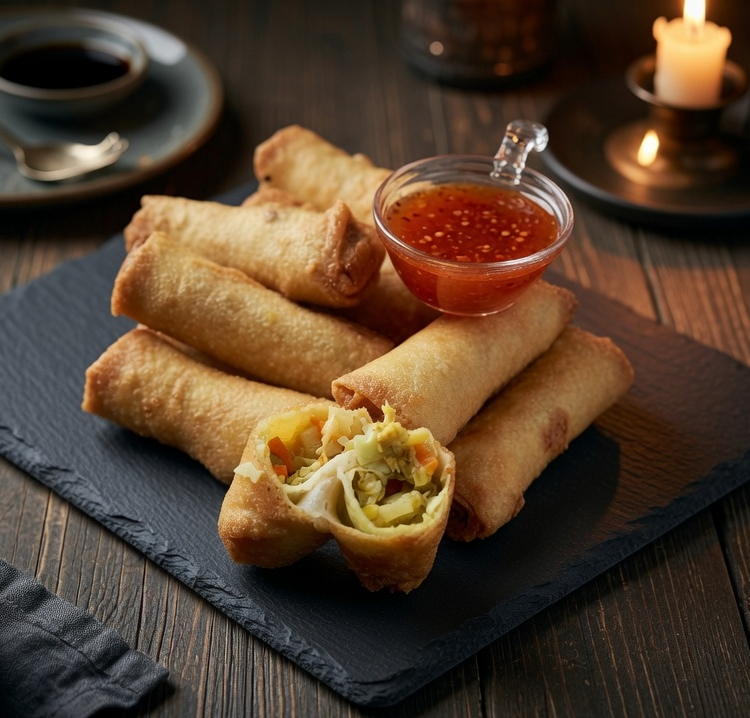
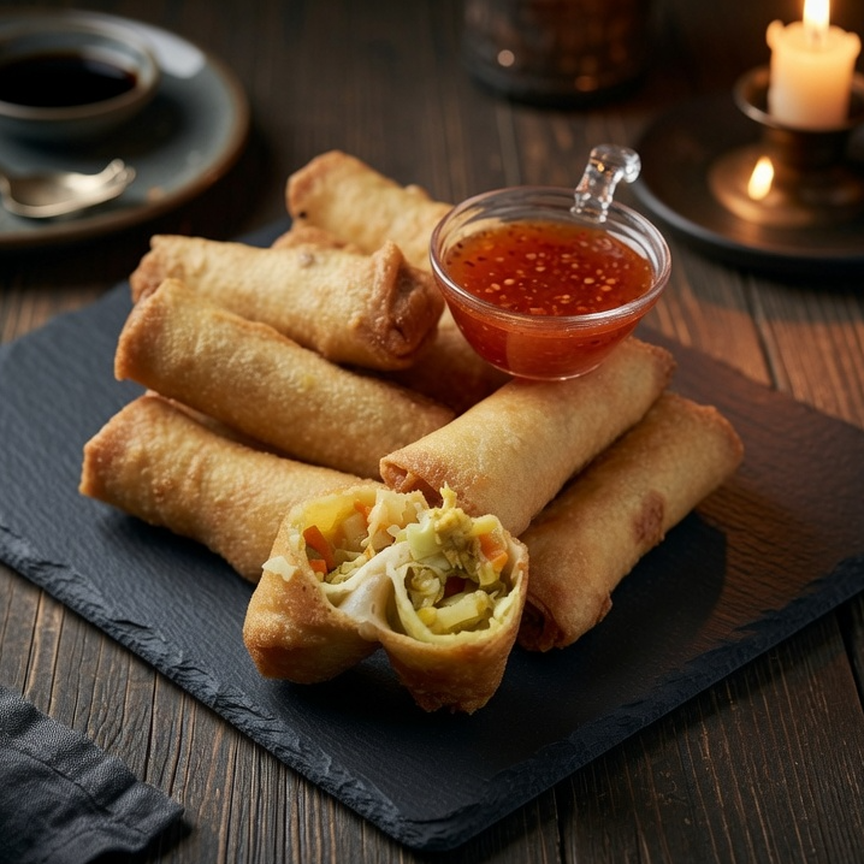
Samakan ukuran foto Renyah & Gurih dengan Penyajian Premium

diff --git a/styles.css b/styles.css
@@ -649,16 +649,6 @@ ul {
   aspect-ratio: 1;
 }
 
-.gallery__item--natural img {
-  aspect-ratio: 750 / 718;
-  object-fit: cover;
-  height: auto;
-}
-
-.gallery__item--natural:hover img {
-  transform: scale(1.03);
-}
-
 .gallery__item:hover img {
   transform: scale(1.06);
 }

diff --git a/index.html b/index.html
@@ -208,8 +208,8 @@
             <img src="images/hodjapa-platter.jpeg" alt="Berbagai camilan Hodjapa Food">
             <figcaption>Varian Camilan Hodjapa</figcaption>
           </figure>
-          <figure class="gallery__item gallery__item--wide gallery__item--natural">
-            <img src="images/hero-lumpia.png" alt="Lumpia krispi dengan sambal" width="750" height="718">
+          <figure class="gallery__item">
+            <img src="images/hero-lumpia.png" alt="Lumpia krispi dengan sambal">
             <figcaption>Renyah &amp; Gurih</figcaption>
           </figure>
           <figure class="gallery__item">